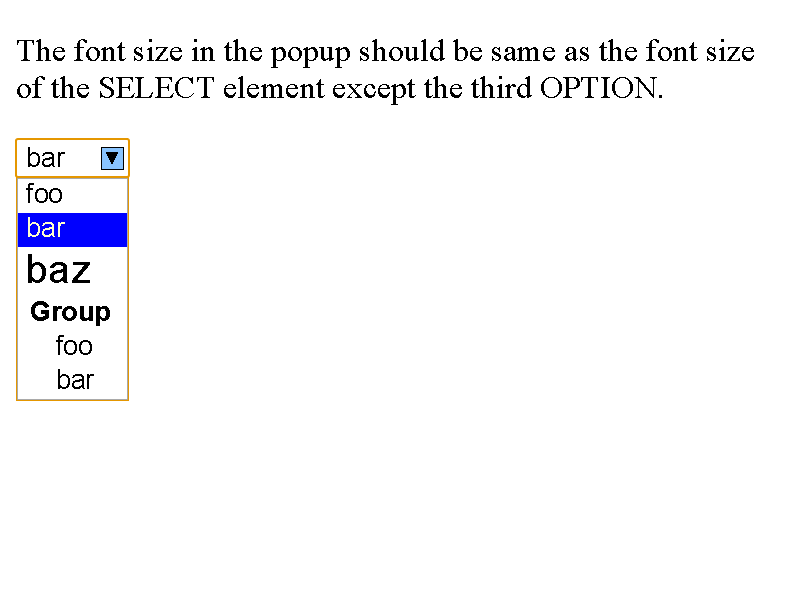
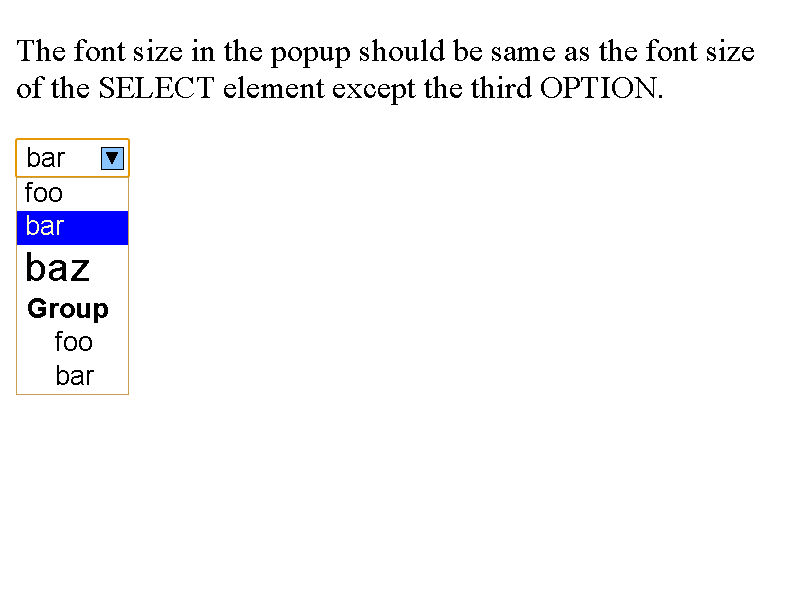
SELECT popup: Don't use non-100% zoom level in popup.
This CL reverts a SELECT popup part of [1], which applied page zoom to
page popups, and we pass zoomed font-size after this CL. [1] made
multiple regressions, and it's hard to fix them in non-100% zoom
level.

* Make PagePopupClient::zoomFactor() virtual, and SELECT popups return 1.0 for it.

* Fix code and comments on screen coordinate.

* Popup border ignores device scale factor and page zoom, and is always 1px width.

[1] codereview.chromium.org/1454613002

BUG=564506,570636,595986

Review-Url: https://codereview.chromium.org/2606853002
Cr-Original-Commit-Position: refs/heads/master@{#441335}
Cr-Mirrored-From: https://chromium.googlesource.com/chromium/src
Cr-Mirrored-Commit: 421bed44b76d7743b573b4a6b313fa17813f8416

Changed region(s): [[0.0, 0.27, 0.1562, 0.69]]

diff --git a/WebKit/Source/web/resources/listPicker.js b/WebKit/Source/web/resources/listPicker.js
@@ -218,11 +218,11 @@ ListPicker.prototype._handleKeyDown = function(event) {
 
 ListPicker.prototype._fixWindowSize = function() {
     this._selectElement.style.height = "";
-    var zoom = this._config.zoomFactor;
-    var maxHeight = this._selectElement.offsetHeight * zoom;
-    var noScrollHeight = (this._calculateScrollHeight() + ListPicker.ListboxSelectBorder * 2) * zoom;
-    var scrollbarWidth = getScrollbarWidth() * zoom;
-    var elementOffsetWidth = this._selectElement.offsetWidth * zoom;
+    var scale = this._config.scaleFactor;
+    var maxHeight = this._selectElement.offsetHeight;
+    var noScrollHeight = (this._calculateScrollHeight() + ListPicker.ListboxSelectBorder * 2);
+    var scrollbarWidth = getScrollbarWidth();
+    var elementOffsetWidth = this._selectElement.offsetWidth;
     var desiredWindowHeight = noScrollHeight;
     var desiredWindowWidth = elementOffsetWidth;
     // If we already have a vertical scrollbar, subtract it out, it will get re-added below.
@@ -236,22 +236,24 @@ ListPicker.prototype._fixWindowSize = function() {
         desiredWindowWidth += scrollbarWidth;
         expectingScrollbar = true;
     }
-    desiredWindowWidth = Math.max(this._config.anchorRectInScreen.width, desiredWindowWidth);
-    var windowRect = adjustWindowRect(desiredWindowWidth, desiredWindowHeight, elementOffsetWidth, 0);
+    // Screen coordinate for anchorRectInScreen and windowRect is DIP.
+    desiredWindowWidth = Math.max(this._config.anchorRectInScreen.width * scale, desiredWindowWidth);
+    var windowRect = adjustWindowRect(desiredWindowWidth / scale, desiredWindowHeight / scale, elementOffsetWidth / scale, 0);
     // If the available screen space is smaller than maxHeight, we will get an unexpected scrollbar.
-    if (!expectingScrollbar && windowRect.height < noScrollHeight) {
-        desiredWindowWidth = windowRect.width + scrollbarWidth;
-        windowRect = adjustWindowRect(desiredWindowWidth, windowRect.height, windowRect.width, windowRect.height);
+    if (!expectingScrollbar && windowRect.height < noScrollHeight / scale) {
+        desiredWindowWidth = windowRect.width * scale + scrollbarWidth;
+        windowRect = adjustWindowRect(desiredWindowWidth / scale, windowRect.height, windowRect.width, windowRect.height);
     }
-    this._selectElement.style.width = (windowRect.width / zoom) + "px";
-    this._selectElement.style.height = (windowRect.height / zoom) + "px";
-    this._element.style.height = (windowRect.height / zoom) + "px";
+    this._selectElement.style.width = (windowRect.width * scale) + "px";
+    this._selectElement.style.height = (windowRect.height * scale) + "px";
+    this._element.style.height = (windowRect.height * scale) + "px";
     setWindowRect(windowRect);
 };
 
 ListPicker.prototype._calculateScrollHeight = function() {
     // Element.scrollHeight returns an integer value but this calculate the
     // actual fractional value.
+    // TODO(tkent): This can be too large? crbug.com/579863
     var top = Infinity;
     var bottom = -Infinity;
     for (var i = 0; i < this._selectElement.children.length; i++) {

diff --git a/WebKit/Source/web/resources/pickerCommon.js b/WebKit/Source/web/resources/pickerCommon.js
@@ -99,11 +99,11 @@ function resizeWindow(width, height) {
 }
 
 /**
- * @param {!number} width in physical pixel
- * @param {!number} height in physical pixel
- * @param {?number} minWidth in physical pixel
- * @param {?number} minHeight in physical pixel
- * @return {!Rectangle} Adjusted rectangle with physical pixels
+ * @param {!number} width in DIP
+ * @param {!number} height in DIP
+ * @param {?number} minWidth in DIP
+ * @param {?number} minHeight in DIP
+ * @return {!Rectangle} Adjusted rectangle in DIP
  */
 function adjustWindowRect(width, height, minWidth, minHeight) {
     if (typeof minWidth !== "number")
@@ -126,7 +126,7 @@ function adjustWindowRect(width, height, minWidth, minHeight) {
 }
 
 /**
- * Arguments are physical pixels.
+ * Arguments are DIPs.
  */
 function _adjustWindowRectVertically(windowRect, availRect, anchorRect, minHeight) {
     var availableSpaceAbove = anchorRect.y - availRect.y;
@@ -146,7 +146,7 @@ function _adjustWindowRectVertically(windowRect, availRect, anchorRect, minHeigh
 }
 
 /**
- * Arguments are physical pixels.
+ * Arguments are DIPs.
  */
 function _adjustWindowRectHorizontally(windowRect, availRect, anchorRect, minWidth) {
     windowRect.width = Math.min(windowRect.width, availRect.width);
@@ -160,7 +160,7 @@ function _adjustWindowRectHorizontally(windowRect, availRect, anchorRect, minWid
 }
 
 /**
- * @param {!Rectangle} rect Window position and size with physical pixels.
+ * @param {!Rectangle} rect Window position and size in DIP.
  */
 function setWindowRect(rect) {
     if (window.frameElement) {

diff --git a/WebKit/LayoutTests/fast/forms/select-popup/popup-menu-appearance-zoom110.html b/WebKit/LayoutTests/fast/forms/select-popup/popup-menu-appearance-zoom110.html
@@ -1,0 +1,42 @@
+<!DOCTYPE html>
+<html>
+<head>
+<script>
+window.enablePixelTesting = true;
+</script>
+<script src="../../../resources/js-test.js"></script>
+<script src="../resources/picker-common.js"></script>
+</head>
+<body style="zoom:1.1;">
+<p>There is no whitespace at the bottom of the popup in 110% zoom level.</p>
+<!-- TOOD(tkent): The pixel result on Linux has unexepcted scroll bar.  We
+  -- should understand the cause.  The scrollbar doesn't appear on content_shell
+  -- and chrome.  So, it's not a serious issue. -->
+<select id="menu" style="font-size: 12px; font-family: 'Segoe UI', Tahoma, -webkit-sans-serif; width: 145.455px;">
+<option>25%</option>
+<option>33%</option>
+<option>50%</option>
+<option>67%</option>
+<option>75%</option>
+<option>90%</option>
+<option>100%</option>
+<option>110%</option>
+<option>125%</option>
+<option>150%</option>
+<option>175%</option>
+<option>200%</option>
+<option>250%</option>
+<option>300%</option>
+<option>400%</option>
+<option>500%</option>
+</select>
+<p id="description" style="opacity: 0"></p>
+<div id="console" style="opacity: 0"></div>
+<script>
+openPicker(menu, finishJSTest, function () {
+    testFailed('picker didn\'t open')
+    finishJSTest();
+});
+</script>
+</body>
+</html>

diff --git a/WebKit/LayoutTests/fast/forms/select-popup/popup-menu-appearance-zoom090.html b/WebKit/LayoutTests/fast/forms/select-popup/popup-menu-appearance-zoom090.html
@@ -9,9 +9,6 @@ window.enablePixelTesting = true;
 </head>
 <body style="zoom:0.9;">
 <p>The bottom border of the popup should be visible in 90% zoom level.</p>
-<!-- TOOD(tkent): The pixel result on Linux has unexepcted scroll bar.  We
-  -- should understand the cause.  The scrollbar doesn't appear on content_shell
-  -- and chrome.  So, it's not a serious issue. -->
 <select id="menu">
   <option>foo</option>
   <option selected>bar</option>

diff --git a/WebKit/Source/web/PopupMenuImpl.cpp b/WebKit/Source/web/PopupMenuImpl.cpp
@@ -177,7 +177,7 @@ class PopupMenuImpl::ItemIterationContext {
     addProperty("textTransform",
                 String(textTransformToString(baseStyle().textTransform())),
                 m_buffer);
-    addProperty("fontSize", baseFont().specifiedSize(), m_buffer);
+    addProperty("fontSize", baseFont().computedPixelSize(), m_buffer);
     addProperty("fontStyle", String(fontStyleToString(baseFont().style())),
                 m_buffer);
     addProperty("fontVariant",
@@ -292,14 +292,14 @@ void PopupMenuImpl::writeDocument(SharedBuffer* data) {
   PagePopupClient::addString("],\n", data);
 
   addProperty("anchorRectInScreen", anchorRectInScreen, data);
-  float zoom = zoomFactor();
   float scaleFactor = m_chromeClient->windowToViewportScalar(1.f);
-  addProperty("zoomFactor", zoom / scaleFactor, data);
+  addProperty("zoomFactor", 1, data);
+  addProperty("scaleFactor", scaleFactor, data);
   bool isRTL = !ownerStyle->isLeftToRightDirection();
   addProperty("isRTL", isRTL, data);
   addProperty("paddingStart",
-              isRTL ? ownerElement.clientPaddingRight().toDouble() / zoom
-                    : ownerElement.clientPaddingLeft().toDouble() / zoom,
+              isRTL ? ownerElement.clientPaddingRight().toDouble()
+                    : ownerElement.clientPaddingLeft().toDouble(),
               data);
   PagePopupClient::addString("};\n", data);
   data->append(Platform::current()->loadResource("pickerCommon.js"));
@@ -340,8 +340,7 @@ void PopupMenuImpl::addElementStyle(ItemIterationContext& context,
   if (baseFont.computedPixelSize() != fontDescription.computedPixelSize()) {
     // We don't use FontDescription::specifiedSize() because this element
     // might have its own zoom level.
-    addProperty("fontSize", fontDescription.computedSize() / zoomFactor(),
-                data);
+    addProperty("fontSize", fontDescription.computedPixelSize(), data);
   }
   // Our UA stylesheet has font-weight:normal for OPTION.
   if (FontWeightNormal != fontDescription.weight())

diff --git a/WebKit/Source/core/page/PagePopupClient.h b/WebKit/Source/core/page/PagePopupClient.h
@@ -58,7 +58,7 @@ class CORE_EXPORT PagePopupClient {
   virtual Element& ownerElement() = 0;
   // Returns effective zoom factor of ownerElement, or the page zoom factor if
   // the effective zoom factor is not available.
-  float zoomFactor();
+  virtual float zoomFactor();
   // Returns a Locale object associated to the client.
   virtual Locale& locale() = 0;
 

diff --git a/WebKit/Source/web/PopupMenuImpl.h b/WebKit/Source/web/PopupMenuImpl.h
@@ -50,6 +50,7 @@ class PopupMenuImpl final : public PopupMenu, public PagePopupClient {
   void setValue(const String&) override;
   void closePopup() override;
   Element& ownerElement() override;
+  float zoomFactor() override { return 1.0; }
   Locale& locale() override;
   void didClosePopup() override;
 
